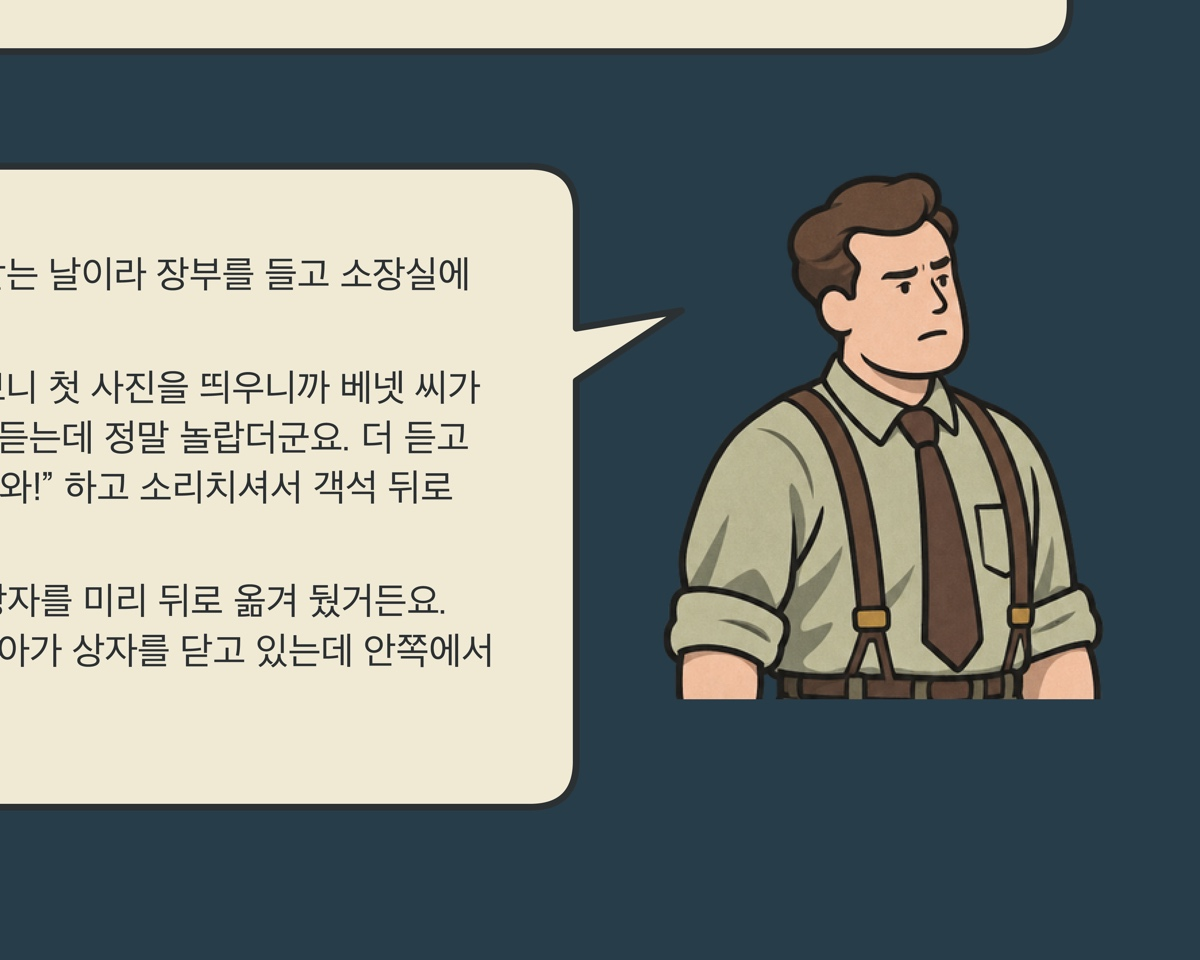
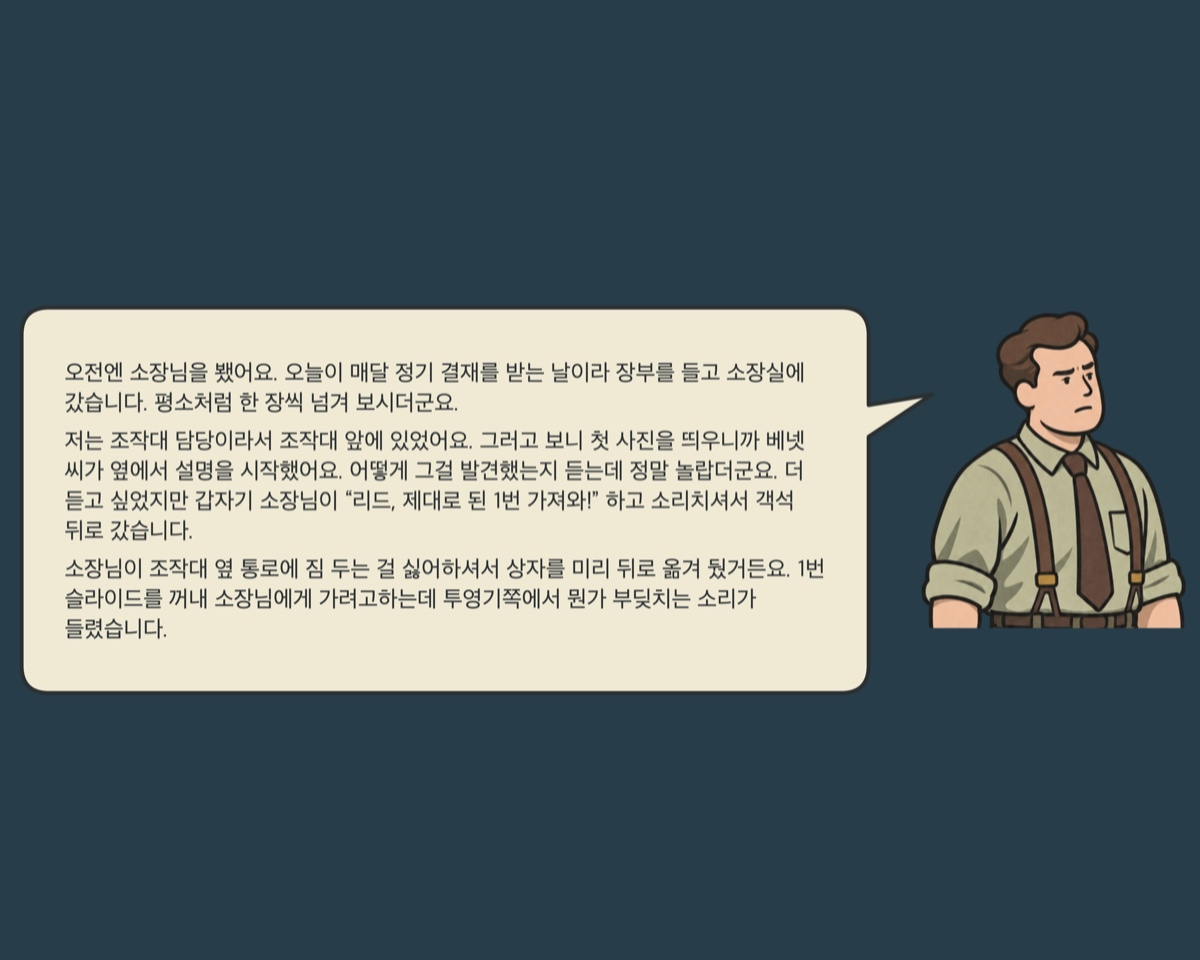
Publish revised testimony and keep proof spoilers in the solution

diff --git a/traces-of-guilt/case-data.js b/traces-of-guilt/case-data.js
@@ -1,6 +1,6 @@
 const illustrations = {
   scene: "planetarium/main.png?v=rehearsal-slide-handoff",
-  testimonyA: "planetarium/witnesses-01.png?v=rehearsal-slide-handoff",
+  testimonyA: "planetarium/witnesses-01.png?v=witness-proof",
   testimonyB: "planetarium/witnesses-02.png?v=character-faces",
   schedule: "planetarium/schedule.png?v=clue-art-refresh",
   console: "planetarium/console.png?v=clue-art-refresh",
@@ -68,8 +68,7 @@ export const caseFile = {
       image: illustrations.proof,
       position: [57, 65],
       align: "end",
-      location: "office",
-      notes: ["reporter-notes", "cipher-guide"]
+      location: "office"
     },
     {
       title: "리허설 진행표",
@@ -197,16 +196,16 @@ export const caseFile = {
         text: "마거릿은 후반에 나오는 화살표를 보고 리허설이 끝날 때쯤이라고 생각했어요. 사진을 대조하면 그 표시가 정상 Ⅱ번과 다른 화면 위에 떠 있었음을 알 수 있어요. 이 차이는 그때 소장이 왜 정상 Ⅰ번을 다시 찾았는지 설명할 실마리예요."
       },
       {
-        image: "planetarium/solution/06-reid-testimony.jpg",
+        image: "planetarium/solution/06-reid-testimony.jpg?v=witness-proof",
         alt: "소장에게서 제대로 된 1번을 가져오라는 말을 들은 리드의 증언",
-        title: "예정에 없던 Ⅰ번 전달",
-        text: "첫 사진이 뜬 뒤 소장이 “리드, 제대로 된 1번 가져와!”라고 외쳤어요. 리드는 객석 뒤에서 정상 Ⅰ번을 꺼내 통로 입구에서 소장에게 건넸어요. 진행표에서 다음에 쓸 슬라이드는 Ⅱ번이에요. 소장은 왜 Ⅰ번을 급히 다시 받았을까요?"
+        title: "소장이 예정에 없던 Ⅰ번을 찾았어요",
+        text: "첫 사진이 뜬 뒤 소장이 “리드, 제대로 된 1번 가져와!”라고 외쳤어요. 리드는 객석 뒤에서 Ⅰ번을 꺼내 소장에게 가려던 중 충돌음을 들었다고 처음에 진술했어요. 진행표의 다음 순서는 Ⅱ번인데, 왜 소장은 Ⅰ번을 급히 찾았을까요?"
       },
       {
-        image: "planetarium/solution/07-slide-handoff.jpg",
-        alt: "리드가 Ⅰ번을 소장에게 건넸다는 증언과 소장의 손에 남은 Ⅰ번과 Ⅱ번 슬라이드",
+        image: "planetarium/solution/07-slide-handoff.jpg?v=witness-proof",
+        alt: "리드가 Ⅰ번을 가지러 갔다는 증언과 소장의 손에 남은 Ⅰ번과 Ⅱ번 슬라이드",
         title: "소장은 이미 Ⅱ번을 가지고 있었어요",
-        text: "소장의 손에는 다음 순서에 쓸 Ⅱ번과 리드에게서 받은 Ⅰ번이 함께 남아 있었어요. 예정대로였다면 가지고 있던 Ⅱ번으로 넘어갈 수 있었어요. 정상 Ⅰ번을 급히 다시 받았다는 건 첫 화면에 문제가 생겨 바로잡으려 했다는 단서예요."
+        text: "리드는 추가 진술에서 충돌 전에 Ⅰ번을 건넸다고 했어요. 점검 기록에서도 소장의 손에 Ⅰ번과 Ⅱ번이 함께 있었음이 확인돼요. 예정대로였다면 소장은 이미 들고 있던 Ⅱ번으로 넘어갈 수 있었어요. Ⅰ번을 급히 찾은 건 첫 화면을 바로잡으려 했다는 단서예요."
       },
       {
         image: "planetarium/solution/08-console-warning.jpg",
@@ -239,7 +238,7 @@ export const caseFile = {
         image: "planetarium/solution/12-cipher-addressee.jpg",
         alt: "줄리언 머서의 기자 이름과 To.로 시작하는 암호 편지",
         title: "수신인 이름으로 암호 풀기",
-        text: "교정쇄의 ‘줄리언 머서’를 편지의 To. 뒤에 대입하면 수신인을 알 수 있어요. ‘줄’의 ㅈ·ㅜ·ㄹ이 첫 음절의 문양 세 개와 맞아요. 교정쇄에 딸린 문양 해독표로 이 방식을 본문에 적용할 수 있어요.",
+        text: "교정쇄의 ‘줄리언 머서’를 편지의 To. 뒤에 대입하면 수신인을 알 수 있어요. ‘줄’의 ㅈ·ㅜ·ㄹ이 첫 음절의 문양 세 개와 맞아요. 아래 문양 해독표를 열면 이 방식을 본문에도 적용할 수 있어요.",
         notes: ["cipher-guide"]
       },
       {

diff --git a/traces-of-guilt/index.html b/traces-of-guilt/index.html
@@ -9,7 +9,7 @@
   <title>Traces of Guilt</title>
   <link rel="canonical" href="https://iontail.github.io/traces-of-guilt/">
   <link rel="stylesheet" href="style.css?v=case-evidence-review">
-  <script src="game.js?v=schedule-marker" type="module"></script>
+  <script src="game.js?v=witness-proof" type="module"></script>
 </head>
 <body>
   <svg class="icon-definitions" aria-hidden="true" xmlns="http://www.w3.org/2000/svg">

diff --git a/traces-of-guilt/game.js b/traces-of-guilt/game.js
@@ -1,4 +1,4 @@
-import { caseFile } from "./case-data.js?v=schedule-marker";
+import { caseFile } from "./case-data.js?v=witness-proof";
 
 const entrance = document.querySelector(".entrance");
 const enterButton = entrance.querySelector(".enter-room");
